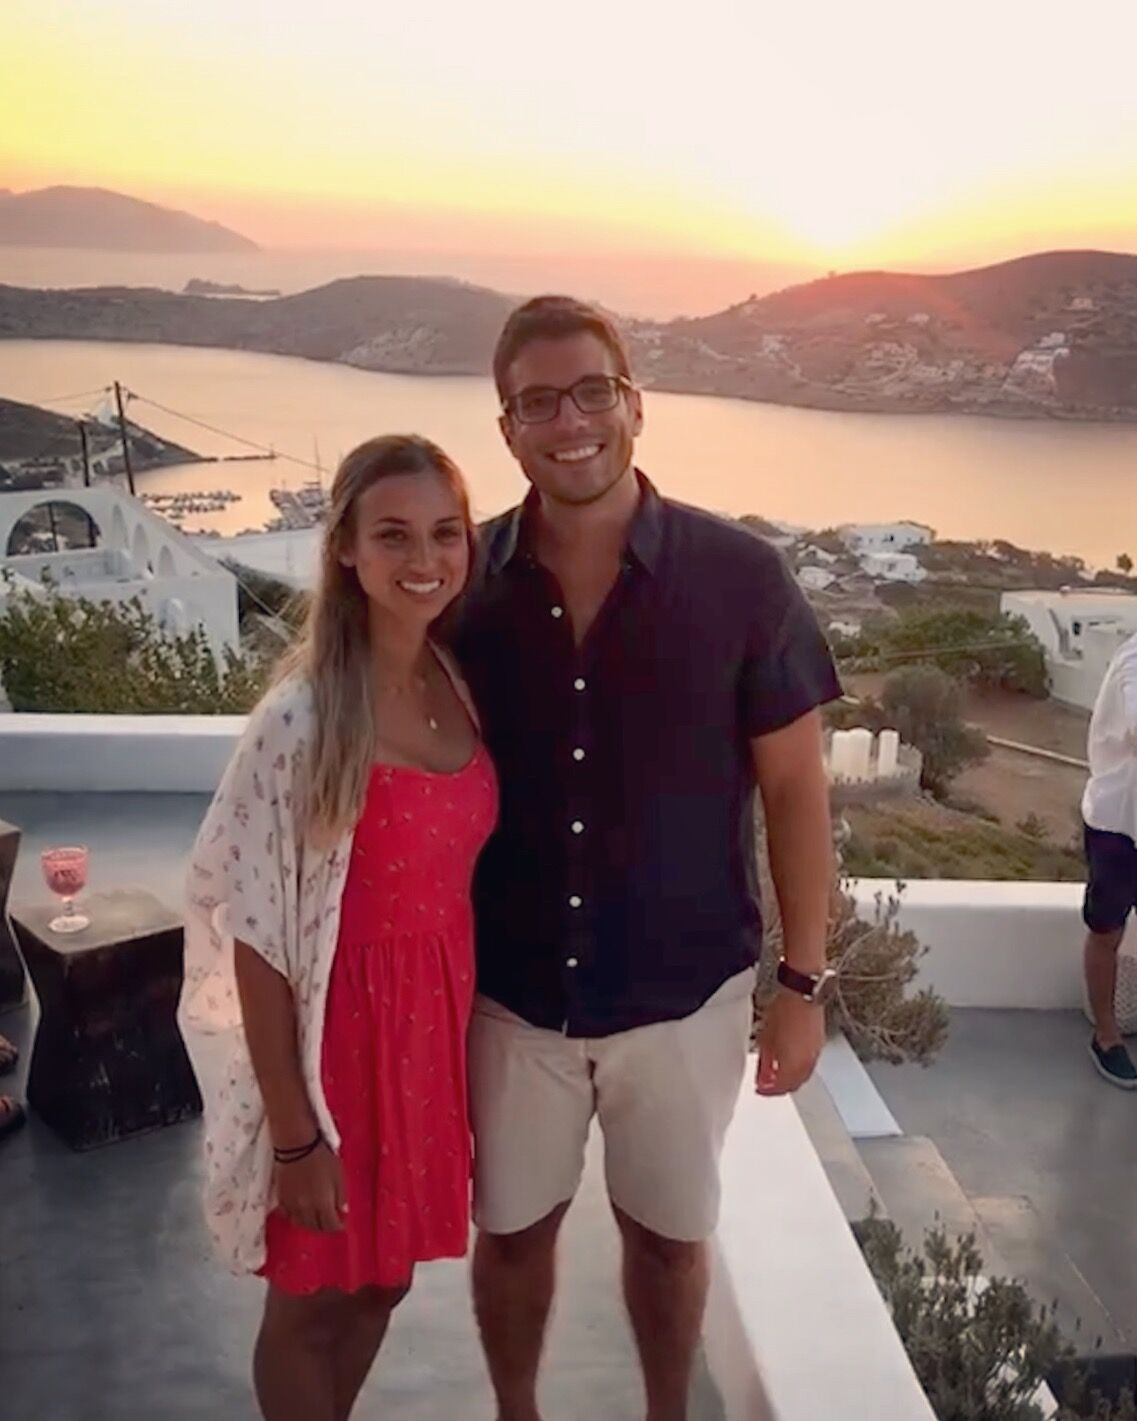
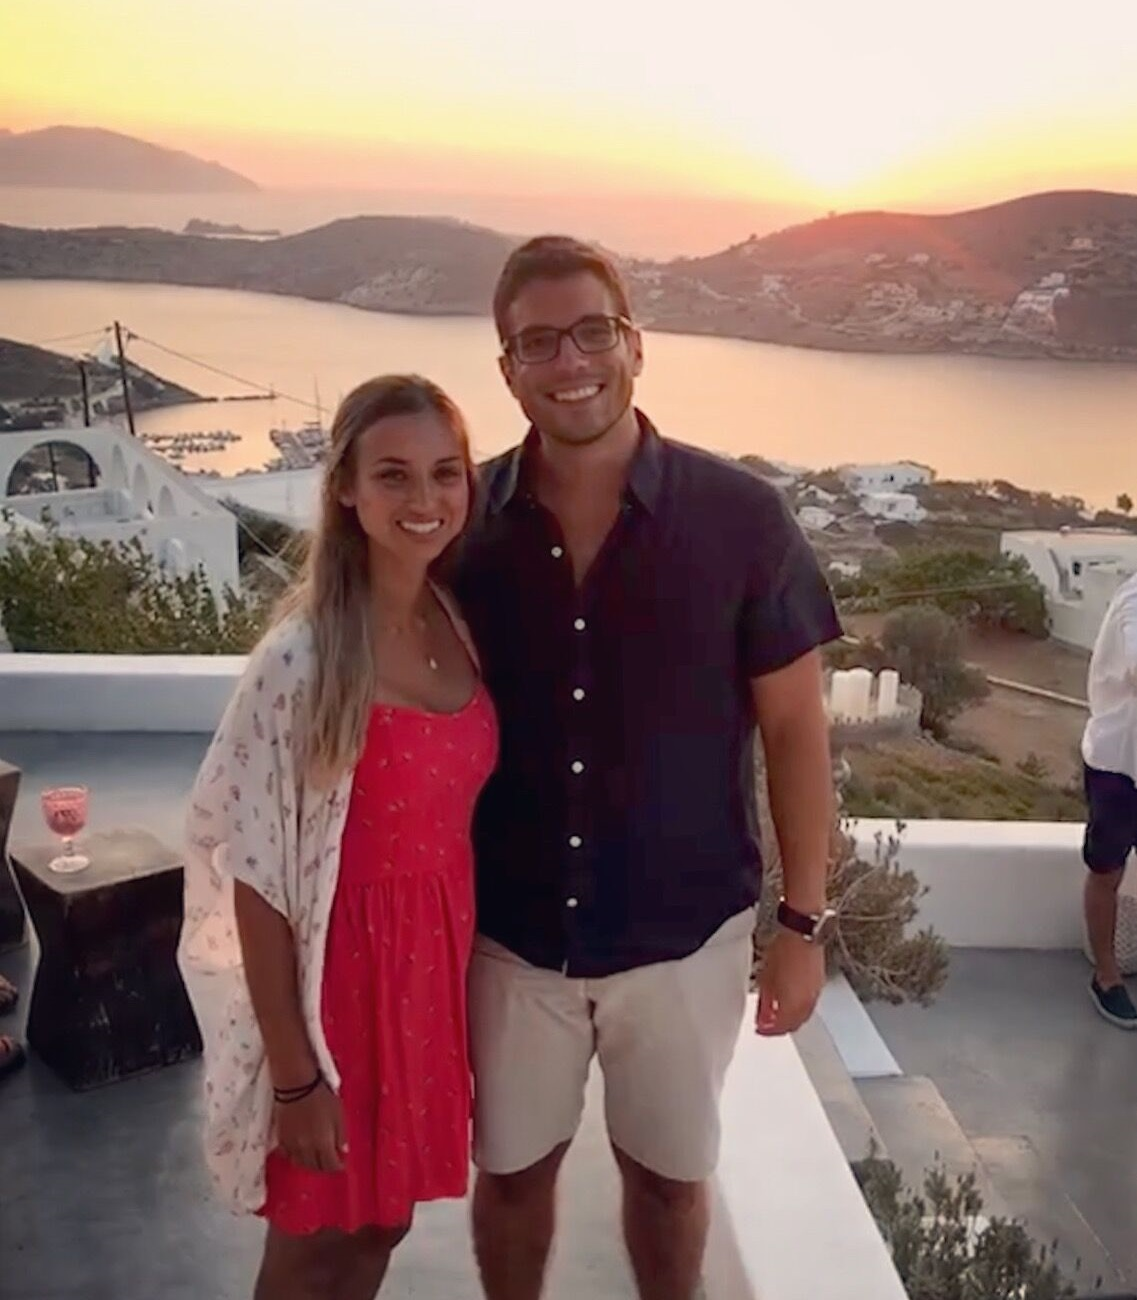
resize the carousel images
so that they fit nicer

diff --git a/wedding.html b/wedding.html
@@ -24,7 +24,7 @@
         <li><a href="#faqs">FAQs</a></li>
       </ul>
     </nav>
-    <header class="row">
+    <header id="home" class="row">
       <p>May 9, 2020<br>St Thomas, USVI</p>
       <p>#HeGosserDownTheAisle</p>
     </header>
@@ -291,35 +291,35 @@
       </div>
       <div class="slideshow-container">
         <div class="mySlides fade column">
-          <img src="assets\images\brazil-rio.jpeg">
+          <img class="slides" src="assets\images\brazil-rio.jpeg">
           <p>Pedra da G&aacute;vea. Rio de Janeiro, Brazil</p>
         </div>
         <div class="mySlides fade column">
-          <img src="assets\images\california-sf.jpeg">
+          <img class="slides" src="assets\images\california-sf.jpeg">
           <p>Golden Gate Bridge. San Francisco, California</p>
         </div>
         <div class="mySlides fade column">
-          <img src="assets\images\california-yosemite.jpeg">
+          <img class="slides" src="assets\images\california-yosemite.jpeg">
           <p>Yosemite, California</p>
         </div>
         <div class="mySlides fade column">
-          <img src="assets\images\california-yosemite-mist-trail.jpeg">
+          <img class="slides" src="assets\images\california-yosemite-mist-trail.jpeg">
           <p>Mist Trail. Yosemite, California</p>
         </div>
         <div class="mySlides fade column">
-          <img src="assets\images\greece-ios.jpeg">
+          <img class="slides" src="assets\images\greece-ios.jpeg">
           <p>Ios, Greece</p>
         </div>
         <div class="mySlides fade column">
-          <img src="assets\images\greece-santorini.jpeg">
+          <img class="slides" src="assets\images\greece-santorini.jpeg">
           <p>Santorini, Greece</p>
         </div>
         <div class="mySlides fade column">
-          <img src="assets\images\costa-rica.jpeg">
+          <img class="slides" src="assets\images\costa-rica.jpeg">
           <p>Santa Teresa, Costa Rica</p>
         </div>
         <div class="mySlides fade column">
-          <img src="assets\images\costa-rica-engaged-sunset.jpeg">
+          <img class="slides" src="assets\images\costa-rica-engaged-sunset.jpeg">
           <p>Santa Teresa, Costa Rica</p>
         </div>
         <div class="center-align">
@@ -348,13 +348,13 @@
       </div>
       <div class="row">
         <div class="column">
-          <img src="assets/images/Lauren.png" alt="Lauren Byers">
+          <img class="wedding-party" src="assets/images/Lauren.png" alt="Lauren Byers">
           <h2>Lauren Byers</h2>
           <h3>Matron of Honor</h3>
           <p>About Lauren</p>
         </div>
         <div class="column">
-          <img src="assets\images\Lucas.png" class="icon" alt="Lucas Gosser">
+          <img class="wedding-party" src="assets\images\Lucas.png" class="icon" alt="Lucas Gosser">
           <h2>Lucas Gosser</h2>
           <h3>Best Man</h3>
           <p>About Lucas</p>

diff --git a/assets/css/styles.css b/assets/css/styles.css
@@ -65,6 +65,7 @@ h2 {
   font-family: 'Nunito Sans', sans-serif;
   text-transform: uppercase; 
   font-weight: lighter; 
+  text-align: center;
 }
 
 h3 {
@@ -188,8 +189,15 @@ li {
 }
 
 .column img {
-  height: 100px;
-  width: 100px;
+  max-height: 100px;
+  max-width: 100px;
+  object-fit: contain;
+}
+
+img.wedding-party  {
+  max-height: 250px;
+  max-width: 250px;
+  object-fit: contain;
 }
 
 .hr-minor {
@@ -538,12 +546,14 @@ input, textarea {
   width: auto;
 }
 
-img {
+img.slides {
   vertical-align: middle;
   border-radius: 50%;
   height: 400px;
   width: 400px;
-  object-fit: contain;
+  max-width: 400px;
+  max-height: 400px;
+  object-fit: cover;
 }
 
 /* Slideshow container */
